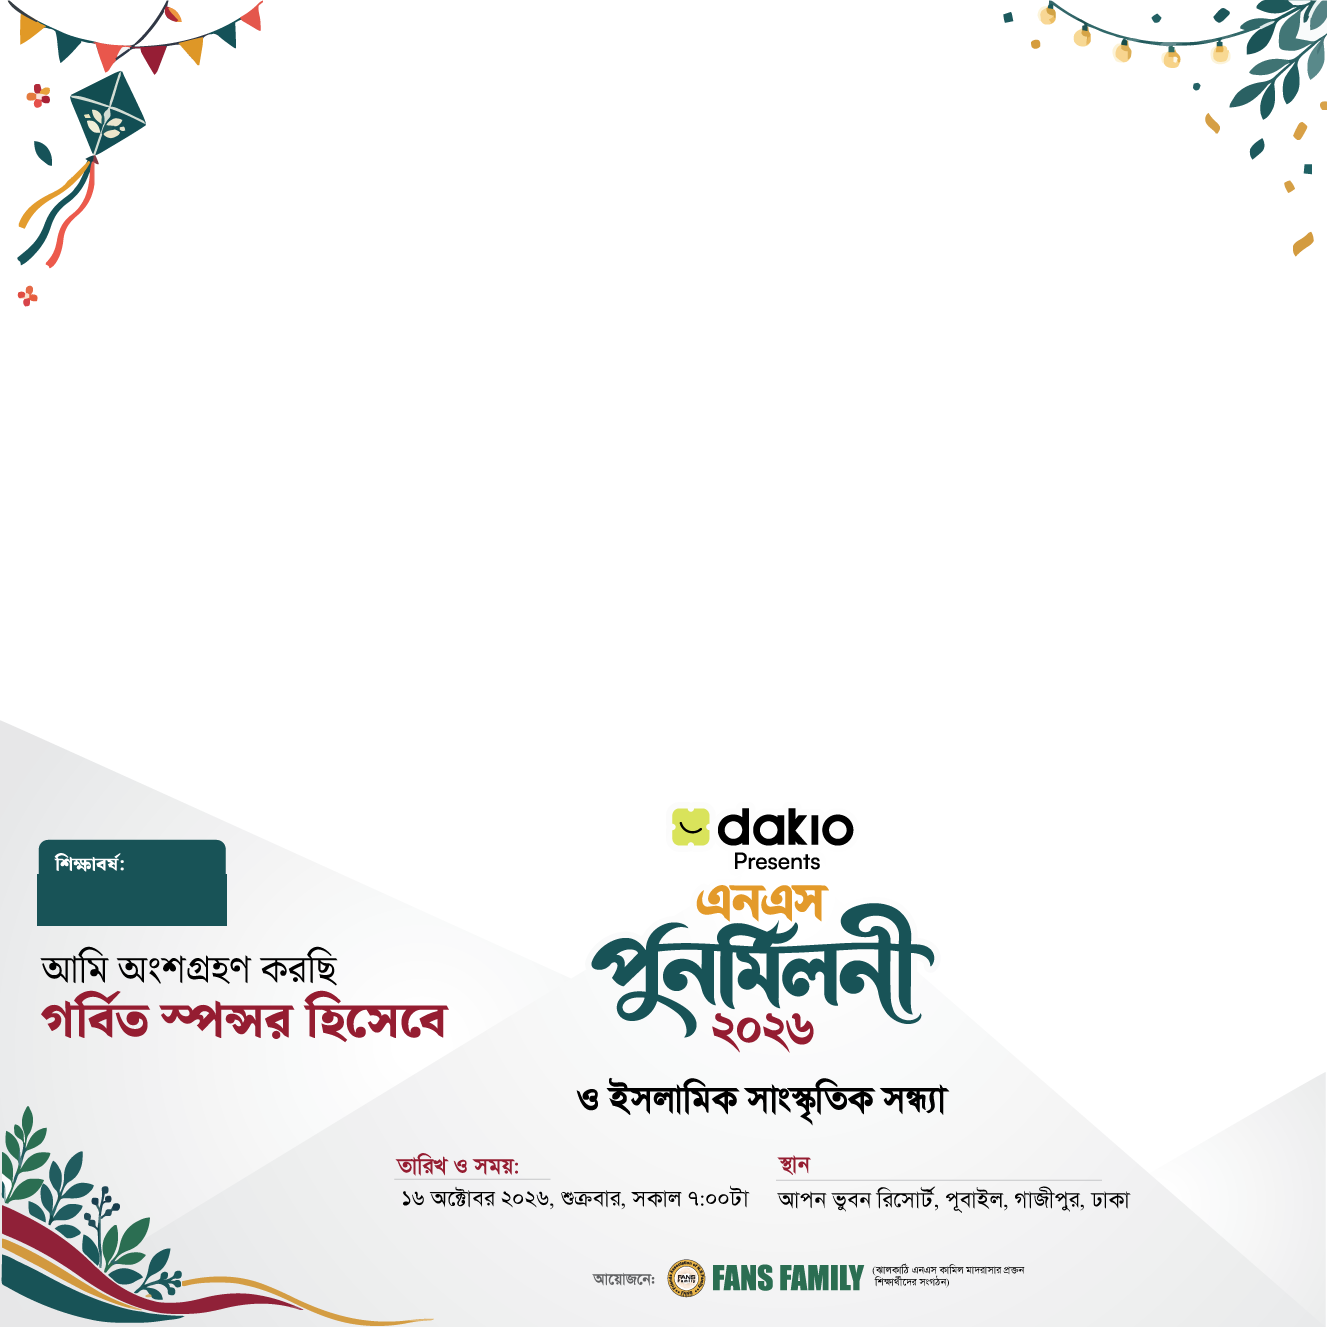
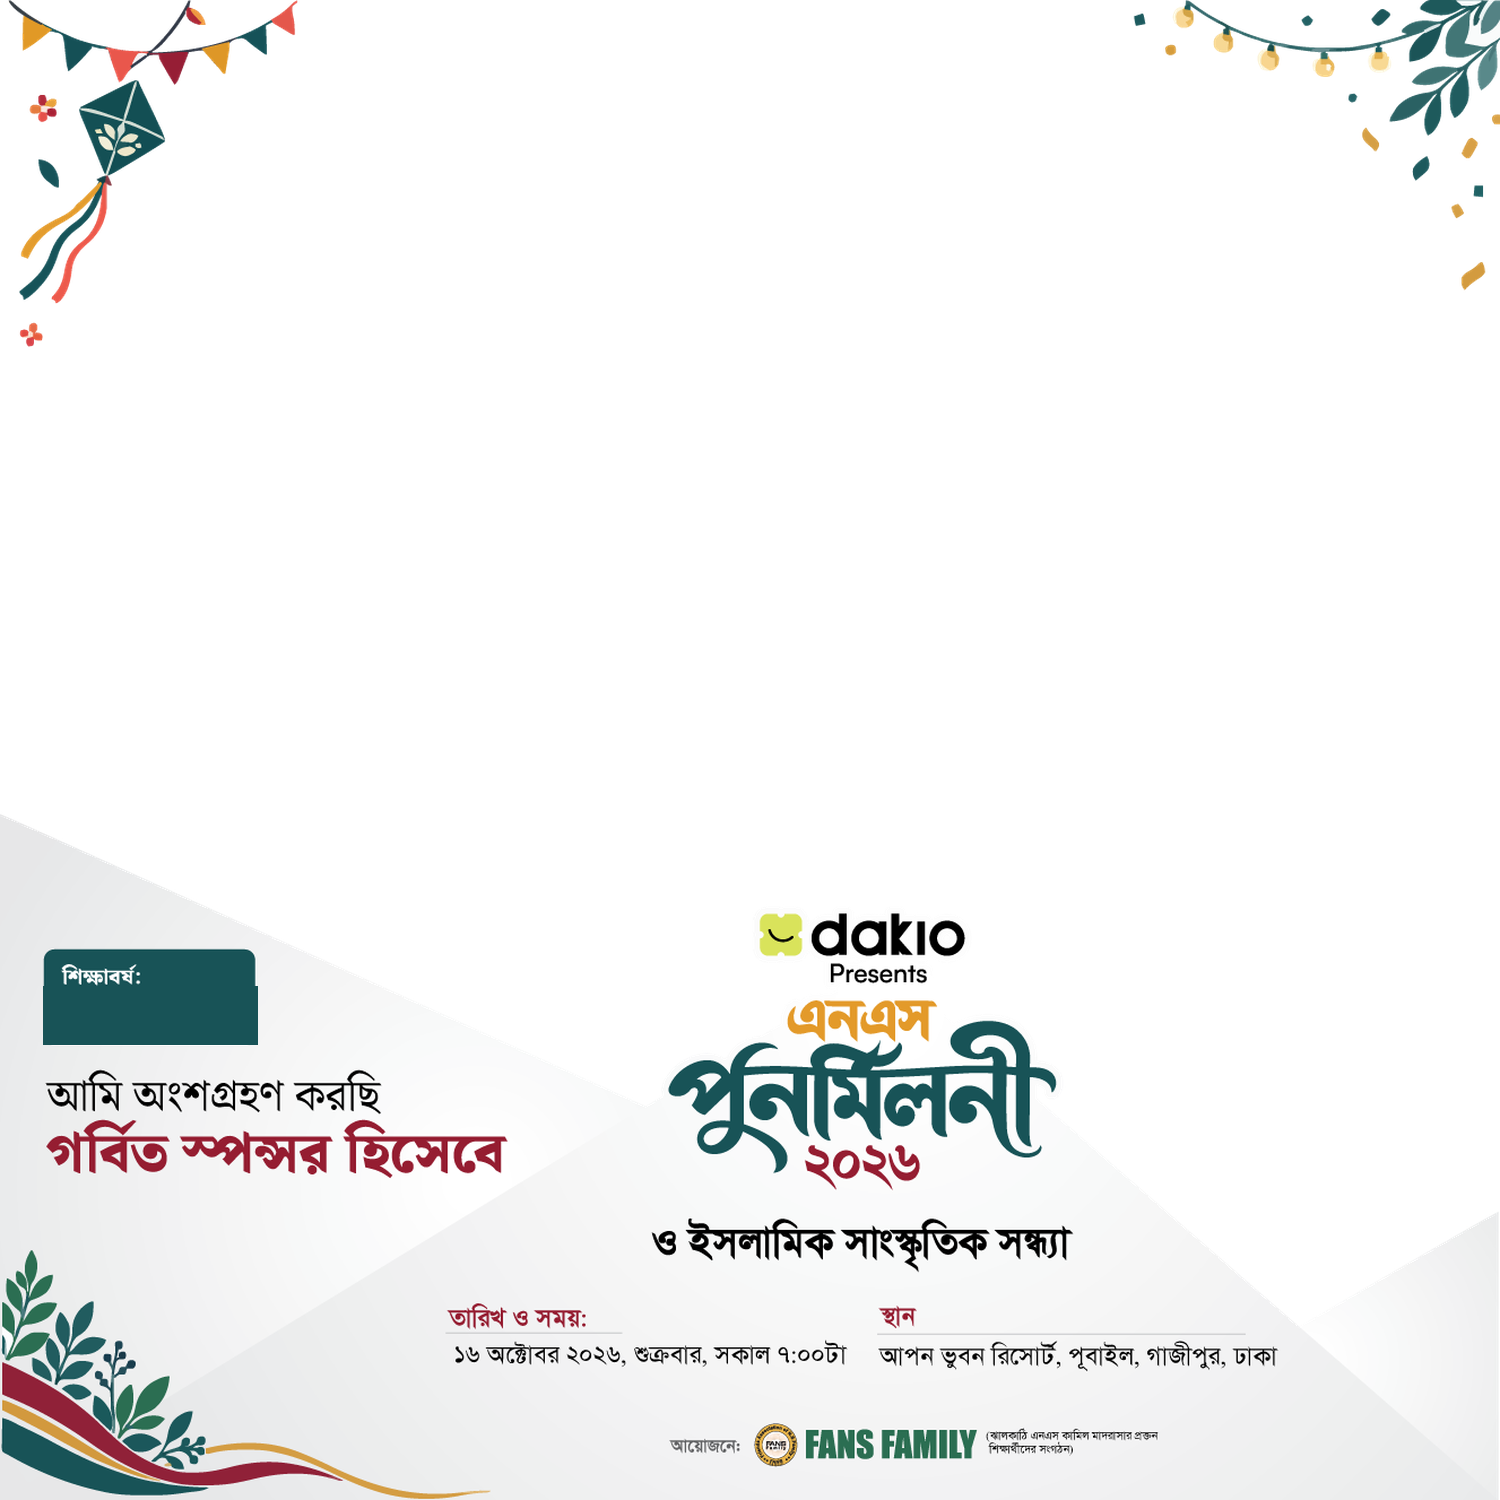
Fix sponsor frame's session text landing in the wrong spot
The sponsor source PNG was 1327x1327 while the other two frames are
1500x1500 — the canvas stretches every frame to 1500x1500 regardless,
so the badge box coordinates (measured on the 1327px original) landed
~120px too high once scaled up, pushing the typed শিক্ষাবর্ষ text into
the label line above it.

Fix: upscale the sponsor source to 1500x1500 to match the other two
frames before inpainting the badge, re-detect the badge geometry on
the corrected image (lands at the same position as participant/
volunteer, as expected — same template), and reuse their box coords.

diff --git a/app/[lang]/nsgettogather26/PhotoFrameClient.jsx b/app/[lang]/nsgettogather26/PhotoFrameClient.jsx
@@ -24,7 +24,7 @@ const FRAMES = [
     key: "sponsor",
     label: "স্পন্সর",
     src: "/assets/nsgettogather26/frames/frame-sponsor.png",
-    box: { x: 55, centerY: 893, width: 165, maxSize: 30, minSize: 14 },
+    box: { x: 66, centerY: 1015, width: 182, maxSize: 34, minSize: 15 },
   },
 ];
 
